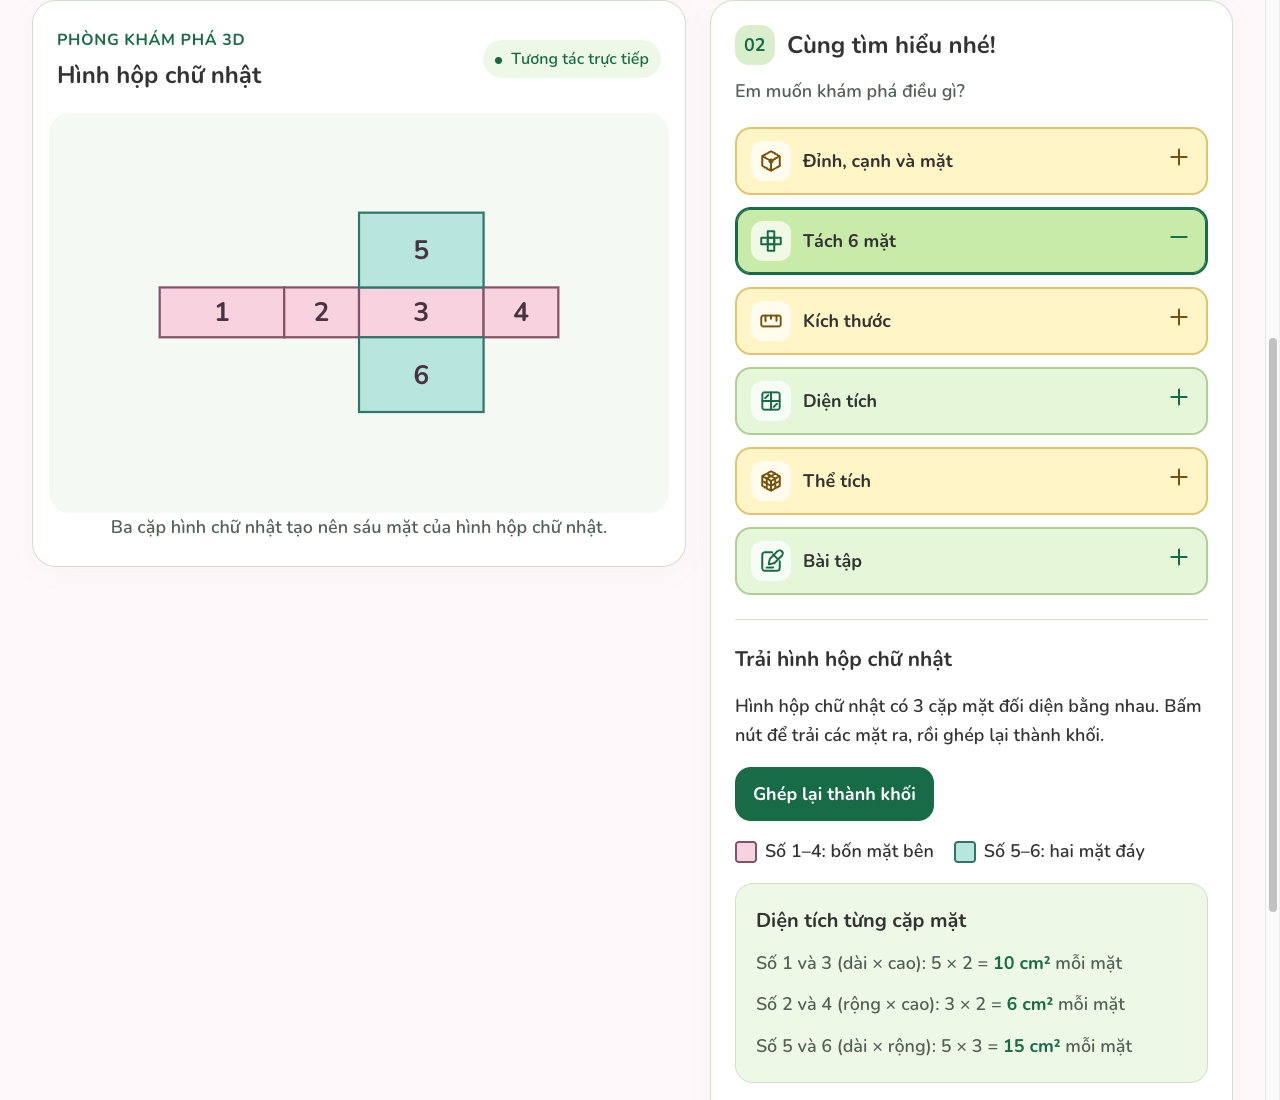
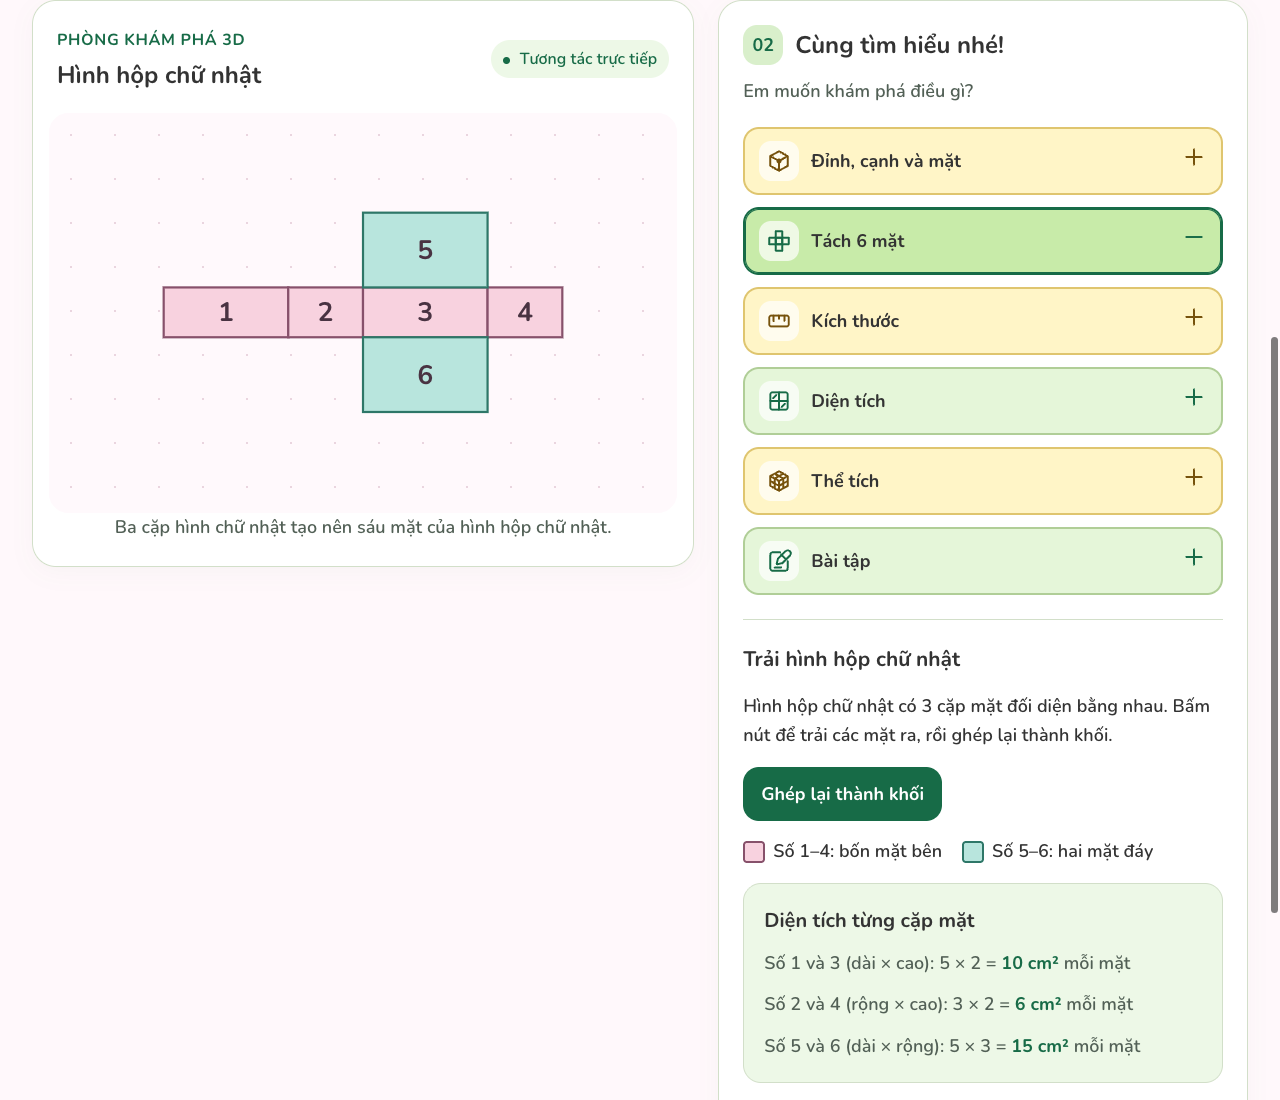
version 1.2

diff --git a/src/App.jsx b/src/App.jsx
@@ -22,17 +22,33 @@ function Exploration({ shape }) {
   const [area, setArea] = useState('lateral');
   const [units, setUnits] = useState(false);
   const [netOpen, setNetOpen] = useState(false);
+  const [netClosing, setNetClosing] = useState(false);
   const [command, setCommand] = useState(null);
   const mode = topic === 'features' ? feature : topic === 'area' ? area : null;
   const netVisible = topic === 'net' && netOpen;
+  function toggleNet() {
+    if (netClosing) return;
+    if (!netOpen) setNetOpen(true);
+    else if (window.matchMedia('(prefers-reduced-motion: reduce)').matches) setNetOpen(false);
+    else setNetClosing(true);
+  }
+  function finishNetClose() {
+    setNetOpen(false);
+    setNetClosing(false);
+  }
+  function selectTopic(next) {
+    setTopic(previous => previous === next ? null : next);
+    setNetOpen(false);
+    setNetClosing(false);
+  }
   return <section className="exploration" aria-label={`Khám phá ${shapeLessons[shape].name.toLowerCase()}`}>
     <div className="viewer-card">
       <div className="viewer-heading"><div><span className="eyebrow">PHÒNG KHÁM PHÁ 3D</span><h2>{shapeLessons[shape].name}</h2></div><span className="live-badge"><i /> Tương tác trực tiếp</span></div>
-      <div className={`scene ${netVisible ? 'net-open' : ''}`} role="img" aria-label={netVisible ? `Hình triển khai ${shapeLessons[shape].name.toLowerCase()}: bốn mặt bên màu hồng, hai mặt đáy màu xanh. ${shape === 'cube' ? 'Sáu mặt vuông bằng nhau.' : 'Hai mặt dài nhân cao, hai mặt rộng nhân cao và hai đáy dài nhân rộng.'}` : `Mô hình ${shapeLessons[shape].name.toLowerCase()}. Dùng chuột hoặc nút bên dưới để xoay và phóng to.`}>
+      <div className={`scene ${netVisible ? 'net-open' : ''} ${netClosing ? 'net-closing' : ''}`} role="img" aria-label={netVisible ? `Hình triển khai ${shapeLessons[shape].name.toLowerCase()}: bốn mặt bên màu hồng, hai mặt đáy màu xanh. ${shape === 'cube' ? 'Sáu mặt vuông bằng nhau.' : 'Hai mặt dài nhân cao, hai mặt rộng nhân cao và hai đáy dài nhân rộng.'}` : `Mô hình ${shapeLessons[shape].name.toLowerCase()}. Dùng chuột hoặc nút bên dưới để xoay và phóng to.`}>
         <Suspense fallback={<p className="scene-fallback">Đang chuẩn bị mô hình 3D…</p>}>
           <GeometryScene shape={shape} dimensions={geometry.dimensions} mode={mode} showDimensions={topic === 'dimensions'} showUnits={topic === 'volume' && units && canShowUnitCubes(geometry.dimensions)} command={command} />
         </Suspense>
-        {netVisible ? <ShapeNet dimensions={geometry.dimensions} /> : <span className="scene-tag">{topic === 'volume' && units && canShowUnitCubes(geometry.dimensions) ? 'Mỗi khối nhỏ: 1 cm³' : 'Kéo để xoay hình'}</span>}
+        {netVisible ? <ShapeNet dimensions={geometry.dimensions} closing={netClosing} onCloseComplete={finishNetClose} /> : <span className="scene-tag">{topic === 'volume' && units && canShowUnitCubes(geometry.dimensions) ? 'Mỗi khối nhỏ: 1 cm³' : 'Kéo để xoay hình'}</span>}
       </div>
       {!netVisible && <ViewControls onAction={action => setCommand(previous => ({ action, id: (previous?.id ?? 0) + 1 }))} />}
       <p className="viewer-hint">{netVisible ? shape === 'cube' ? 'Sáu hình vuông bằng nhau tạo nên sáu mặt của hình lập phương.' : 'Ba cặp hình chữ nhật tạo nên sáu mặt của hình hộp chữ nhật.' : <>Kéo chuột để xoay · Cuộn hoặc chụm hai ngón để zoom<br /><span>Zoom chỉ đổi góc nhìn, không đổi kích thước hình.</span></>}</p>
@@ -40,8 +56,8 @@ function Exploration({ shape }) {
     <aside className="explore-card">
       <div className="section-heading"><span className="step">02</span><h2>Cùng tìm hiểu nhé!</h2></div>
       <p className="panel-intro">Em muốn khám phá điều gì?</p>
-      <ExploreControls topic={topic} onSelect={next => { setTopic(previous => previous === next ? null : next); setNetOpen(false); }} />
-      <KnowledgePanel {...{ shape, topic, feature, setFeature, area, setArea, units, setUnits, netOpen, setNetOpen, geometry, exerciseState }} />
+      <ExploreControls topic={topic} onSelect={selectTopic} />
+      <KnowledgePanel {...{ shape, topic, feature, setFeature, area, setArea, units, setUnits, netOpen, geometry, exerciseState }} onNetToggle={toggleNet} />
     </aside>
   </section>;
 }

diff --git a/src/components/KnowledgePanel.jsx b/src/components/KnowledgePanel.jsx
@@ -7,7 +7,7 @@ function ChoiceButtons({ options, value, onChange }) {
   return <div className="choice-buttons">{options.map(([id, label]) => <button key={id} aria-pressed={value === id} className={value === id ? 'active' : ''} onClick={() => onChange(id)}>{label}</button>)}</div>;
 }
 
-export default function KnowledgePanel({ shape, topic, feature, setFeature, area, setArea, units, setUnits, netOpen, setNetOpen, geometry, exerciseState }) {
+export default function KnowledgePanel({ shape, topic, feature, setFeature, area, setArea, units, setUnits, netOpen, onNetToggle, geometry, exerciseState }) {
   const { values, dimensions: { d, r, h }, dimensions, results, setDimension } = geometry;
   const cube = shape === 'cube';
   const lateral = area === 'lateral';
@@ -28,7 +28,7 @@ export default function KnowledgePanel({ shape, topic, feature, setFeature, area
     {topic === 'net' && <div className="net-lesson">
       <h3>Trải {shapeLessons[shape].name.toLowerCase()}</h3>
       <p>{cube ? 'Hình lập phương có 6 mặt vuông bằng nhau.' : 'Hình hộp chữ nhật có 3 cặp mặt đối diện bằng nhau.'} Bấm nút để trải các mặt ra, rồi ghép lại thành khối.</p>
-      <button type="button" className="primary" aria-pressed={netOpen} onClick={() => setNetOpen(open => !open)}>{netOpen ? 'Ghép lại thành khối' : cube ? 'Trải thành 6 hình vuông' : 'Trải 6 mặt chữ nhật'}</button>
+      <button type="button" className="primary" aria-pressed={netOpen} onClick={onNetToggle}>{netOpen ? 'Ghép lại thành khối' : cube ? 'Trải thành 6 hình vuông' : 'Trải 6 mặt chữ nhật'}</button>
       {netOpen && <>
         <p className="net-legend"><span><i className="net-swatch side" /> Số 1–4: bốn mặt bên</span><span><i className="net-swatch base" /> Số 5–6: hai mặt đáy</span></p>
         {cube ? <div className="formula"><strong>Diện tích mỗi mặt vuông</strong><span>{d} × {d} =</span><b>{d * d} cm²</b></div> : <div className="formula"><strong>Diện tích từng cặp mặt</strong><span>Số 1 và 3 (dài × cao): {d} × {h} = <b>{d * h} cm²</b> mỗi mặt</span><span>Số 2 và 4 (rộng × cao): {r} × {h} = <b>{r * h} cm²</b> mỗi mặt</span><span>Số 5 và 6 (dài × rộng): {d} × {r} = <b>{d * r} cm²</b> mỗi mặt</span></div>}

diff --git a/src/styles/layout.css b/src/styles/layout.css
@@ -217,13 +217,12 @@ main { max-width: 1280px; margin: 0 auto; padding: 0 32px; }
   height: 400px;
   position: relative;
   margin: 20px 16px 0;
-  background: var(--surface-soft);
+  background: #fff9fc radial-gradient(circle, #ead5df 1px, transparent 1.4px) 0 0 / 44px 44px;
   border-radius: 20px;
   touch-action: none;
 }
 
 .scene canvas { display: block; border-radius: 20px; }
-.scene.net-open canvas { visibility: hidden; }
 
 .shape-net {
   position: absolute;
@@ -231,7 +230,10 @@ main { max-width: 1280px; margin: 0 auto; padding: 0 32px; }
   display: grid;
   place-items: center;
   padding: 14px;
-  pointer-events: none;
+  z-index: 1;
+  background: inherit;
+  border-radius: inherit;
+  animation: net-enter .6s ease-out both;
 }
 
 .shape-net svg { width: min(100%, 420px); max-height: 100%; }
@@ -240,17 +242,33 @@ main { max-width: 1280px; margin: 0 auto; padding: 0 32px; }
 .net-face-base rect { fill: #b8e5dd; stroke: #2e7768; }
 .net-face text { fill: #493342; font-family: 'Geometry Nunito', sans-serif; font-weight: 700; }
 .net-face { animation: net-open .6s ease-out both; }
+.scene.net-closing .shape-net { animation: net-exit .6s ease-in-out both; }
+.scene.net-closing .net-face { animation: net-close .6s ease-in-out both; }
+
+@keyframes net-enter {
+  from { opacity: 0; }
+  to { opacity: 1; }
+}
+
+@keyframes net-exit {
+  0%, 25% { opacity: 1; }
+  100% { opacity: 0; }
+}
 
 @keyframes net-open {
   from { transform: translate(var(--net-x, 0), var(--net-y, 0)); opacity: .45; }
   to { transform: translate(0, 0); opacity: 1; }
 }
 
+@keyframes net-close {
+  from { transform: translate(0, 0); opacity: 1; }
+  to { transform: translate(var(--net-x, 0), var(--net-y, 0)); opacity: .45; }
+}
+
 .scene-tag {
   position: absolute;
-  bottom: 16px;
-  left: 50%;
-  transform: translateX(-50%);
+  top: 16px;
+  right: 16px;
   pointer-events: none;
   background: var(--surface);
   border: 1px solid var(--border);

diff --git a/src/scene/BoxModel.jsx b/src/scene/BoxModel.jsx
@@ -1,6 +1,9 @@
 import { Edges, Html } from '@react-three/drei';
 import { isHighlightedFace } from '../utils/geometry';
 
+// +X, -X, +Y, -Y, +Z, -Z. Basic materials keep the initial pink bright on every device.
+const DEFAULT_FACE_COLORS = ['#d978a4', '#d978a4', '#e691ba', '#e691ba', '#df85ad', '#df85ad'];
+
 export default function BoxModel({ dimensions: { d, r, h }, mode, showDimensions, cube }) {
   const vertices = [-1, 1].flatMap(x => [-1, 1].flatMap(y => [-1, 1].map(z => [x * d / 2, y * h / 2, z * r / 2])));
   const labels = cube ? [{ position: [0, -h / 2 - .35, r / 2], text: `a = ${d} cm` }] : [
@@ -11,8 +14,8 @@ export default function BoxModel({ dimensions: { d, r, h }, mode, showDimensions
   return <group>
     <mesh>
       <boxGeometry args={[d, h, r]} />
-      {Array.from({ length: 6 }, (_, index) => <meshStandardMaterial key={index} attach={`material-${index}`} roughness={.65}
-        color={isHighlightedFace(index, mode) ? (mode === 'faces' && (index === 2 || index === 3) ? '#62bcb2' : '#ea75a1') : '#f2dfe7'}
+      {Array.from({ length: 6 }, (_, index) => <meshBasicMaterial key={index} attach={`material-${index}`} toneMapped={false}
+        color={isHighlightedFace(index, mode) ? (mode === 'faces' && (index === 2 || index === 3) ? '#62bcb2' : '#ea75a1') : DEFAULT_FACE_COLORS[index]}
         transparent opacity={mode === 'vertices' || mode === 'edges' ? .3 : 1} depthWrite={mode !== 'vertices' && mode !== 'edges'} />)}
       <Edges color={mode === 'edges' ? '#8751d0' : '#9d5471'} lineWidth={mode === 'edges' ? 3 : 1.5} />
     </mesh>

diff --git a/src/components/ShapeNet.jsx b/src/components/ShapeNet.jsx
@@ -2,7 +2,7 @@ const UNIT = 28;
 const MARGIN = 12;
 
 // Four side faces form a strip. Both d × r bases attach to the d × h third face.
-export default function ShapeNet({ dimensions: { d, r, h } }) {
+export default function ShapeNet({ dimensions: { d, r, h }, closing, onCloseComplete }) {
   const sideY = MARGIN + r * UNIT;
   const centerX = MARGIN + (d + r) * UNIT;
   const faces = [
@@ -17,7 +17,9 @@ export default function ShapeNet({ dimensions: { d, r, h } }) {
   const height = (h + 2 * r) * UNIT + 2 * MARGIN;
   const mobileScale = Math.min(300 / width, 300 / height);
 
-  return <div className="shape-net" aria-hidden="true">
+  return <div className="shape-net" aria-hidden="true" onAnimationEnd={event => {
+    if (closing && event.target === event.currentTarget) onCloseComplete();
+  }}>
     <svg viewBox={`0 0 ${width} ${height}`} focusable="false">
       {faces.map(face => {
         const showNumber = Math.min(face.width, face.height) * mobileScale >= 21;

diff --git a/src/scene/GeometryScene.jsx b/src/scene/GeometryScene.jsx
@@ -5,6 +5,7 @@ import { Spherical, Vector3 } from 'three';
 import CubeModel from './CubeModel';
 import CuboidModel from './CuboidModel';
 import UnitCubeVisualization from './UnitCubeVisualization';
+import { fitDistanceForExtent } from './cameraFit';
 
 const INITIAL_POSITION = [8, 6, 9];
 
@@ -13,7 +14,7 @@ function CameraControls({ command, dimensions }) {
   const lastCommand = useRef(null);
   const { camera, invalidate, size } = useThree();
   const extent = Math.max(dimensions.d, dimensions.r, dimensions.h);
-  const fitDistance = Math.max(12, extent * 3.3 * Math.max(1, size.height / size.width));
+  const fitDistance = fitDistanceForExtent(extent, size.width / size.height);
   useEffect(() => {
     camera.position.normalize().multiplyScalar(fitDistance);
     controls.current?.update();

diff --git a/tests/cameraFit.test.js b/tests/cameraFit.test.js
@@ -1,0 +1,12 @@
+import test from 'node:test';
+import assert from 'node:assert/strict';
+import { fitDistanceForExtent } from '../src/scene/cameraFit.js';
+
+test('Cube keeps growing on screen from 4 to 10 cm while the 10 cm view retains margin', () => {
+  const apparentSize = side => side / fitDistanceForExtent(side, 1.5);
+  assert.ok(apparentSize(3) < apparentSize(4));
+  for (let side = 5; side <= 10; side++) assert.ok(apparentSize(side) > apparentSize(side - 1));
+  assert.ok(apparentSize(10) >= apparentSize(4) * 1.2);
+  assert.ok(apparentSize(10) < .4);
+  assert.ok(fitDistanceForExtent(10, .9) > fitDistanceForExtent(10, 1.5), 'Narrow scenes need more camera distance');
+});

diff --git a/src/scene/cameraFit.js b/src/scene/cameraFit.js
@@ -1,0 +1,4 @@
+// Keep a visible size increase through 10 cm, with room for the farthest corners.
+export function fitDistanceForExtent(extent, aspectRatio) {
+  return Math.max(12, (extent * 2.7 + 4.5) * Math.max(1, 1 / aspectRatio));
+}

diff --git a/docs/TESTING.md b/docs/TESTING.md
@@ -8,19 +8,20 @@ Nhánh `feature/HHCN_HLPver1.1` được kiểm tra bằng `npm run check` và `
 
 | Kiểm tra | Kết quả |
 | --- | --- |
-| Lint, kiểm thử logic, build | Đạt; 9/9 kiểm thử logic, còn cảnh báo chunk 3D lớn hơn 500 kB |
+| Lint, kiểm thử logic, build | Đạt; 10/10 kiểm thử logic, còn cảnh báo chunk 3D lớn hơn 500 kB |
 | Desktop 1280 px; tablet 768/1024 px; mobile giả lập 360/390 px | Mở toàn bộ chủ đề, công thức dài và lời giải; không tràn ngang trang hoặc bị cắt trong khối nội dung |
 | Chữ và nút | Nội dung học tập/nhãn nút tối thiểu 18 px; vùng bấm ít nhất 44 px; nút xoay/zoom luôn có nhãn chữ |
 | Bàn phím | Tab chuyển focus có viền rõ; Enter/Space mở và đóng chủ đề; ArrowRight thay đổi thanh trượt |
 | Nhãn kích thước | Ba nhãn hộp chữ nhật nằm trọn khung ở 360 px tại góc mặc định; đã chụp thêm góc xoay và phóng to |
-| Trải mặt hai hình | Lập phương có sáu mặt vuông; hộp chữ nhật có hai mặt `d × h`, hai mặt `r × h`, hai đáy `d × r`; diện tích cập nhật khi đổi số đo. Đã kiểm tra hộp 1×10×10 cm trên màn 360 px. Ghép lại, đóng chủ đề và đổi hình trả về mô hình; Chrome giả lập reduced motion tắt hiệu ứng trải mặt |
+| Trải mặt hai hình | Lập phương có sáu mặt vuông; hộp chữ nhật có hai mặt `d × h`, hai mặt `r × h`, hai đáy `d × r`; diện tích cập nhật khi đổi số đo. Đã kiểm tra hộp 1×10×10 cm trên màn 360 px. Ghép lại có hoạt ảnh ngược, đóng chủ đề và đổi hình trả về mô hình; Chrome giả lập reduced motion tắt hiệu ứng trải và ghép mặt |
+| Khung 3D | Hình ban đầu của hai khối hồng sáng trên nền hồng gần trắng; camera tự lùi khi tăng cạnh. Ảnh WebGL tại cạnh lập phương 3, 4 và 10 cm được so kích thước thực; khối 10 cm còn lề quanh khung |
 | Chức năng hiện có | Công thức, camera, đổi hình/reset, giới hạn khối đơn vị và luồng bài tập đều đạt |
 | Nhân vật học sinh | Hai nhân vật SVG xuất hiện trên desktop và điện thoại; vẫy tay ngắn mỗi 5 giây và đứng yên giữa các lần vẫy; Chrome giả lập reduced motion xác nhận tắt toàn bộ hoạt ảnh nhân vật |
 | Lỗi JavaScript | Không ghi nhận trong kịch bản kiểm tra |
 
 Các cặp màu chính đã tính tương phản: chữ `#333333`/nền hồng `#FFF8FB` là 12,08:1; chữ trắng/nút xanh `#176B47` là 6,50:1; biểu tượng `#76520c`/nền vàng được chọn `#ffe58c` là 5,65:1; biểu tượng `#176B47`/nền xanh được chọn `#c8eba9` là 4,93:1. Đây là kiểm tra các cặp màu thiết kế, không thay thế rà soát toàn bộ khả năng tiếp cận bằng thiết bị thật.
 
-Ảnh bản 1.1: [Desktop](screenshots/desktop.png), [Trải lập phương](screenshots/desktop-net.png), [Trải hộp chữ nhật](screenshots/desktop-cuboid-net.png), [Công thức desktop](screenshots/desktop-panel.png), [Tablet](screenshots/tablet.png), [Mobile](screenshots/mobile.png), [Trải lập phương mobile](screenshots/mobile-net.png), [Trải hộp chữ nhật mobile](screenshots/mobile-cuboid-net.png), [Công thức mobile](screenshots/mobile-panel.png), [Bài tập mobile](screenshots/mobile-exercise.png), [Nhãn kích thước 360 px](screenshots/mobile-dimensions.png), [Sau xoay](screenshots/mobile-dimensions-rotated.png), [Sau xoay và phóng to](screenshots/mobile-dimensions-zoomed.png).
+Ảnh bản 1.1: [Desktop](screenshots/desktop.png), [Lập phương 3 cm](screenshots/cube-3cm.png), [4 cm](screenshots/cube-4cm.png), [10 cm](screenshots/cube-10cm.png), [Hộp chữ nhật ban đầu](screenshots/cuboid-initial.png), [Trải lập phương](screenshots/desktop-net.png), [Trải hộp chữ nhật](screenshots/desktop-cuboid-net.png), [Công thức desktop](screenshots/desktop-panel.png), [Tablet](screenshots/tablet.png), [Mobile](screenshots/mobile.png), [Trải lập phương mobile](screenshots/mobile-net.png), [Trải hộp chữ nhật mobile](screenshots/mobile-cuboid-net.png), [Công thức mobile](screenshots/mobile-panel.png), [Bài tập mobile](screenshots/mobile-exercise.png), [Nhãn kích thước 360 px](screenshots/mobile-dimensions.png), [Sau xoay](screenshots/mobile-dimensions-rotated.png), [Sau xoay và phóng to](screenshots/mobile-dimensions-zoomed.png).
 
 ## Kết quả bản mẫu 0.1 — 10/10/2026
 

diff --git a/GUIDELINES.md b/GUIDELINES.md
@@ -41,6 +41,7 @@ Phục vụ học sinh lớp 5, mỗi lần tập trung một nội dung. Chỉ 
 - Tablet/điện thoại đến 1040 px xếp dọc; thử màn 360/390, 768/1024 và desktop 1280 px. Điện thoại đến 650 px xếp thẻ hình và chủ đề một cột. Không khóa cuộn trang ngoài vùng thao tác 3D.
 - Không tự xoay liên tục; tôn trọng reduced motion. Có nút xoay/zoom tương đương thao tác chuột.
 - Hình triển khai áp dụng cho cả hai hình: lập phương có 6 hình vuông bằng nhau; hộp chữ nhật có hai mặt `d × h`, hai mặt `r × h` và hai đáy `d × r`. Bốn mặt bên màu hồng, hai đáy màu xanh. Nút trải/ghép là trạng thái của một chủ đề; đóng chủ đề hoặc đổi hình phải trả về mô hình 3D. Trạng thái này không thay đổi số đo hay camera.
+- Khi ghép mặt, giữ hình triển khai đến hết hoạt ảnh rồi hiện mô hình 3D; nếu thiết bị yêu cầu giảm chuyển động thì ghép ngay. Khoảng cách camera theo `scene/cameraFit.js` phải giúp cạnh 3, 4 rồi 10 cm lớn dần trên màn hình, đồng thời khối 10 cm còn lề trong khung.
 - Nhân vật học sinh chỉ trang trí phần đầu trang, dùng SVG và CSS, không thêm thư viện. Hai nhân vật vẫy tay ngắn mỗi 5 giây, đứng yên giữa các lần vẫy và tắt hoàn toàn khi `prefers-reduced-motion: reduce`.
 
 ## Bài tập

diff --git a/docs/BRIEF.md b/docs/BRIEF.md
@@ -34,6 +34,8 @@
 
 `BoxModel` dùng chung cấu trúc hai hình, wrappers thể hiện vai trò của Cube/Cuboid. UnitCubeVisualization dùng một instanced mesh. Canvas render theo nhu cầu (`frameloop="demand"`), scene được lazy load để tách phần 3D khỏi giao diện ban đầu.
 
+Mặt mặc định dùng màu hồng sáng ổn định trên nền gần trắng. Khoảng cách camera phụ thuộc kích thước lớn nhất và tỉ lệ khung, nhưng không thay đổi số đo toán học; lập phương 4–10 cm tiếp tục lớn dần trong khung. Hình triển khai trải và ghép bằng hoạt ảnh; khi giảm chuyển động, trạng thái đổi ngay.
+
 ## Các bước tiếp theo
 
 1. Giáo viên duyệt lời giải, thuật ngữ và cách xác định hai đáy.
